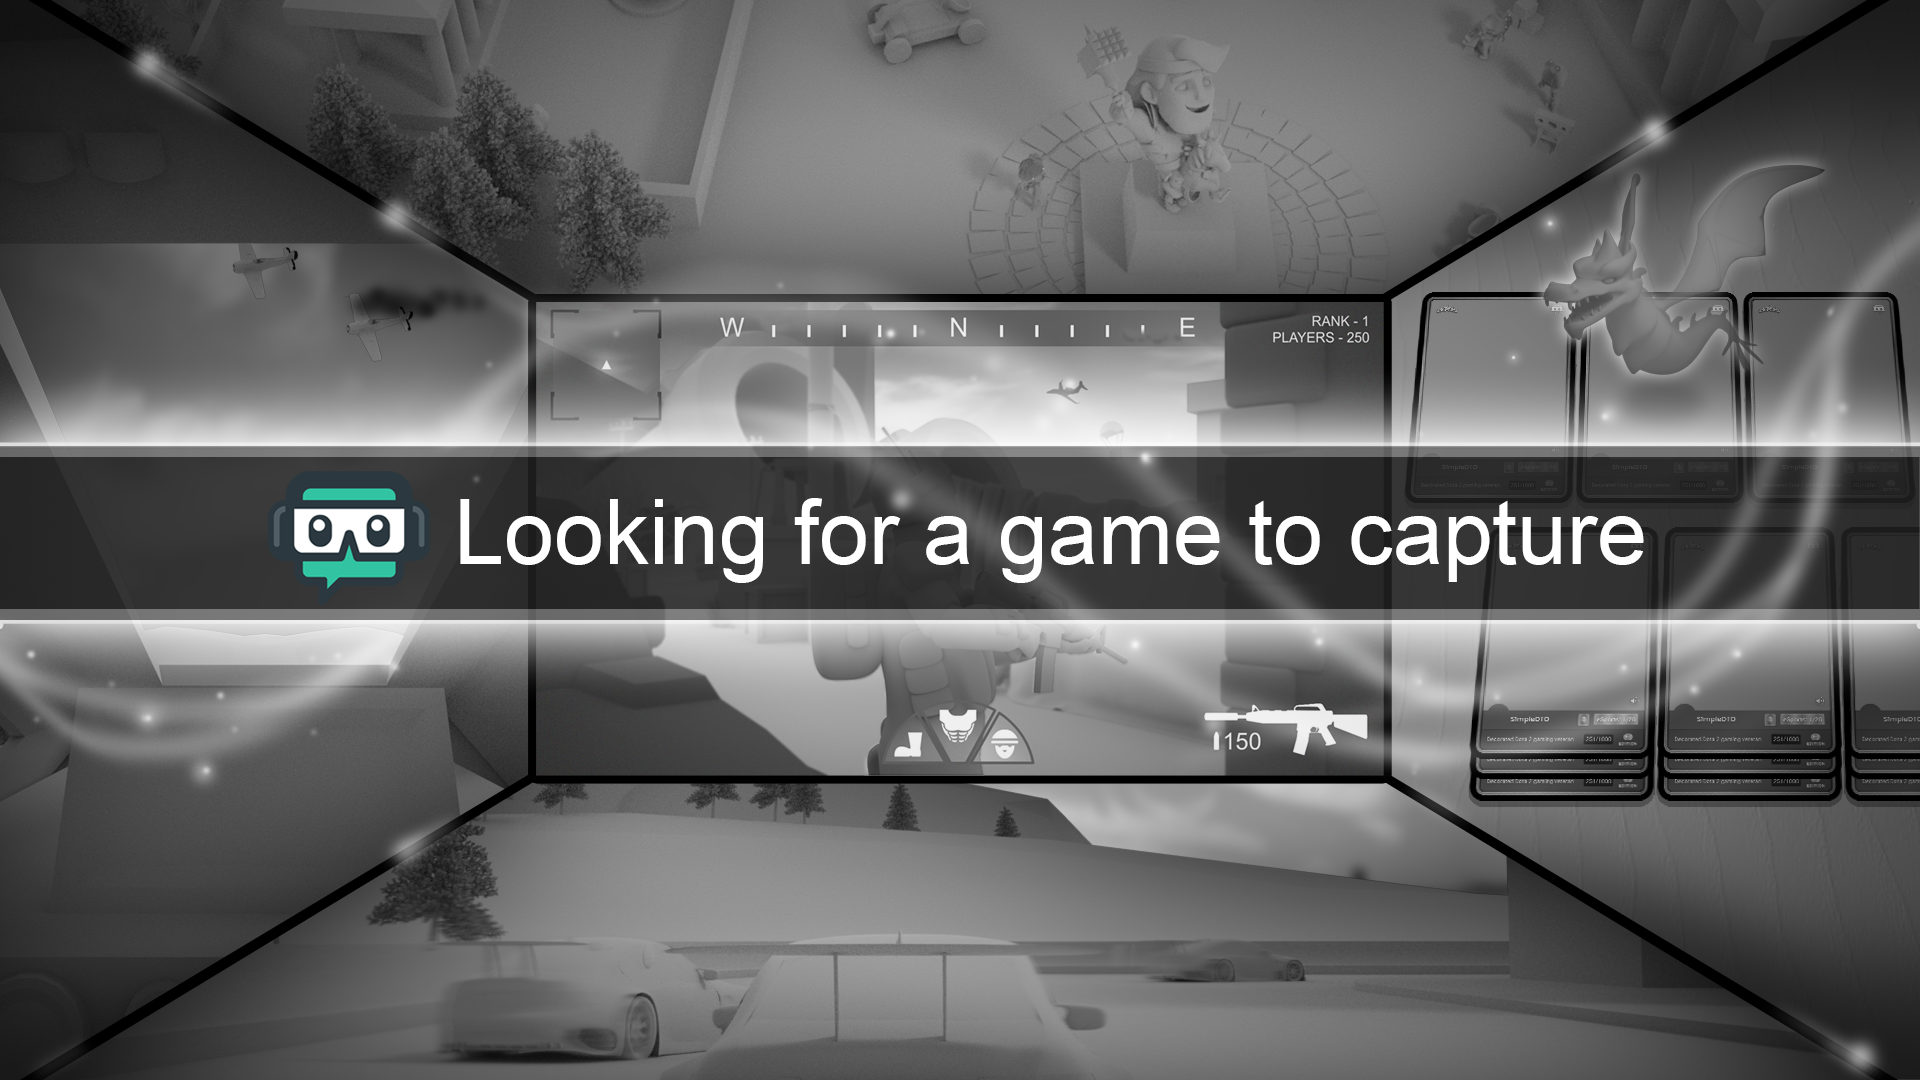
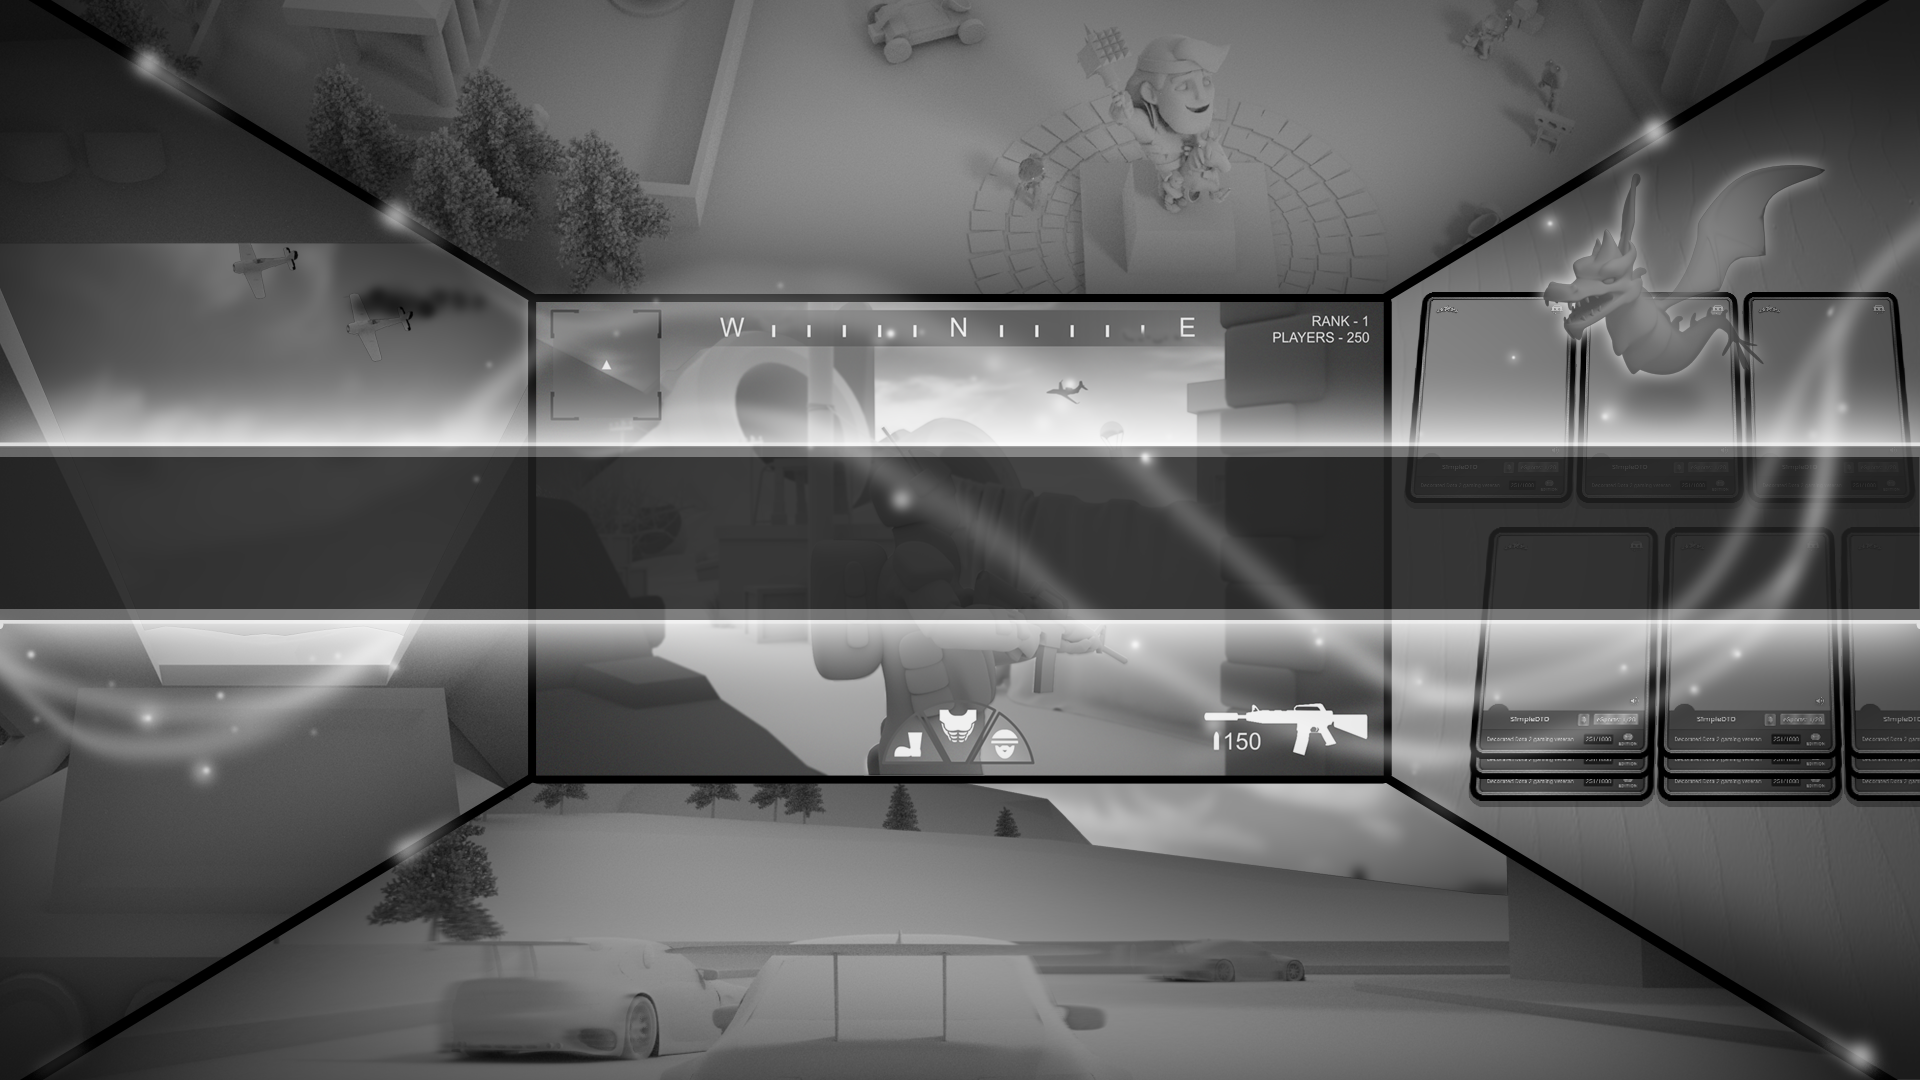
add translatable text for a placeholder (#2481)
* add translatable text for a placeholder

* move translation to another file

* update auto game capture placeholder image

Changed region(s): [[0.125, 0.4278, 0.875, 0.55]]

diff --git a/app/services/sources/properties-managers/default-manager.ts b/app/services/sources/properties-managers/default-manager.ts
@@ -10,6 +10,7 @@ import { UserService } from 'services/user';
 import { CustomizationService } from 'services/customization';
 import { TObsValue } from 'components/obs/inputs/ObsInput';
 import electron from 'electron';
+import { $t } from 'services/i18n';
 import { getSharedResource } from 'util/get-shared-resource';
 
 export interface IDefaultManagerSettings {
@@ -168,6 +169,7 @@ export class DefaultManager extends PropertiesManager {
         'game_capture_list.json',
       ),
       auto_placeholder_image: getSharedResource('capture-placeholder.png'),
+      auto_placeholder_message: $t('Looking for a game to capture'),
     });
   }
 }
